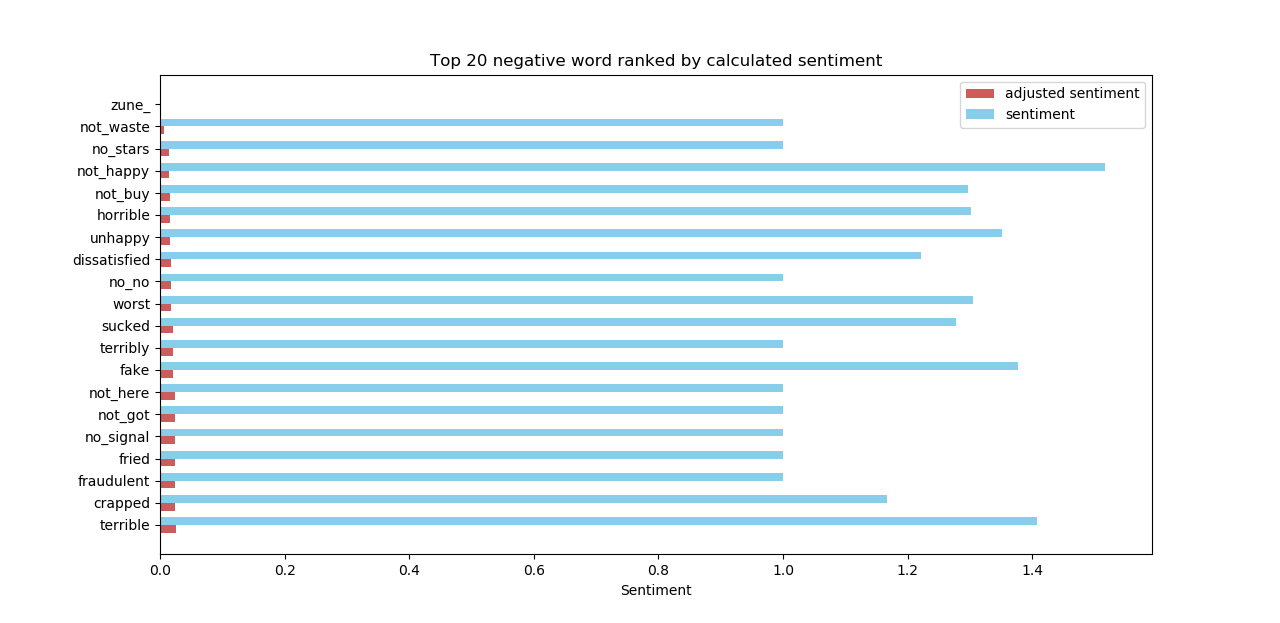
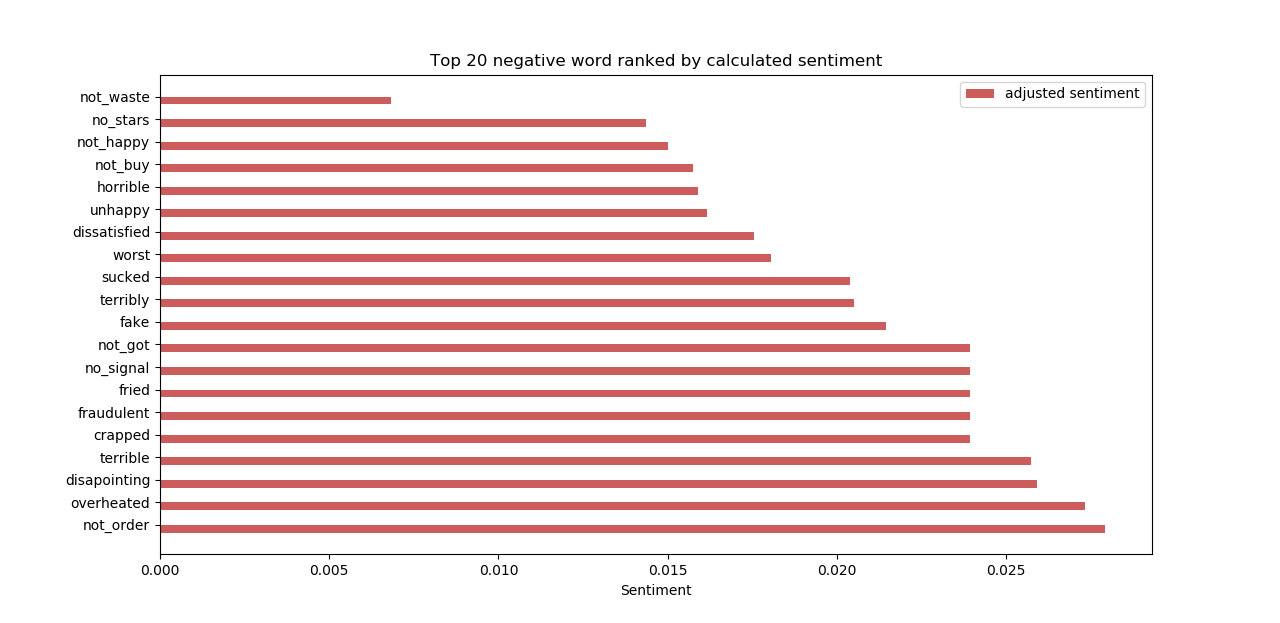
update word detection code

diff --git a/assignment_solution/sentiment_word_detection.py b/assignment_solution/sentiment_word_detection.py
@@ -35,11 +35,7 @@ class KeywordItem():
     def set_word_sentiment(self, numPosReview, numNegReview):
         if self.numReviewMentioned != 0:
             self.sentiment = self.totalScore / self.numReviewMentioned
-
-        # rare words are penalized on their impact to final sentiment value
-        # self.adjustedSentiment = ((2 / (1 + math.exp(-1 * self.numReviewMentioned))) - 1) * self.sentiment
         self.adjustedSentiment = self.sentiment * ((self.numPosMentioned / numPosReview) / (self.numNegMentioned / numNegReview))
-        # self.adjustedSentiment = self.sentiment * ((self.numPosMentioned) / (self.numNegMentioned))
 
     def update_keyword_statistics(self, amazonReview):
         self.numReviewMentioned += 1
@@ -127,7 +123,7 @@ def sentiment_word_analysis(amazonReview):
 
     plt_y_pos = np.arange(len(plt_label))
     ax.barh(plt_y_pos+plt_width/2, plt_value_adjustedSentiment, plt_width, align='center', color='IndianRed', ecolor='black', label='adjusted sentiment')
-    ax.barh(plt_y_pos-plt_width/2, plt_value_Sentiment, plt_width, align='center', color='SkyBlue', ecolor='black', label='sentiment')
+    # ax.barh(plt_y_pos-plt_width/2, plt_value_Sentiment, plt_width, align='center', color='SkyBlue', ecolor='black', label='sentiment')
 
     ax.set_yticks(plt_y_pos)
     ax.set_yticklabels(plt_label)
@@ -161,7 +157,11 @@ def clean_amazon_review_df(df):
 
         # sentiment analysis does not account for noun, numbers, stopwords
         words_list_noNN = [x[0] for x in nltk.pos_tag(word_list) if (x[1] != 'NN' and x[1] != 'CD') ]
-        filtered_words = [word for word in words_list_noNN if word not in stopwords.words('english')]
+
+        stopwords_list = stopwords.words('english')
+        stopwords_list = stopwords_list + ['not_'+x for x in stopwords.words('english')]
+        stopwords_list = stopwords_list + ['no_'+x for x in stopwords.words('english')]
+        filtered_words = [word for word in words_list_noNN if word not in stopwords_list]
 
         x.summary = " ".join(filtered_words)
         print_iteration_progress('clean_summary_text', x)

diff --git a/README.md b/README.md
@@ -16,22 +16,23 @@ The review dataset file are omitted to save space in project directory. Please p
 
 ## Project Installation Guide
 Project setup is as simple as the following 2 steps 
-#### 1. Install package requirements
+#### Install package requirements
 The following command will install the required python packages.
 ```
         $ pip install -r requirements.txt
 ```
 
-#### 2. Run migrations to create the sqlite3 database
-The purpose of using the database instead of operating directly on the `.json` is to speed up retrieval and query of the dataset. Execute the following command to create the database.
-```
-        $ python manage.py migrate
-```
-
 ## Usage guide
 This section describes the steps or commands needed for running the code that solves the problems listed in the project assignment.
-#### Populate the database
-The project uses sqlite3 db engine. Once the sqlite3 database has been created and the `CellPhoneReview.json` placed in the `dataset/` folder, execute the following command to populate the sqlite3 database with amazon review records.
+
+#### 1. Dataset Analysis
+
+#### 2. Noun Phrase Summarizer
+
+#### 3. Sentiment Word Detection
+Once the `CellPhoneReview.json` has been placed in the `dataset/` folder, execute the following command to start generating the top 20 positive and negative words.
 ```
-        $ python main.py initdb
+        $ python main.py sentiment
 ``` 
+
+#### 4. Application
